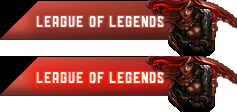
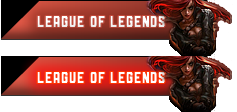
Adjust spacing of images

diff --git a/ahgl/static/css/layout.css b/ahgl/static/css/layout.css
@@ -1261,7 +1261,7 @@ div#static-navheader .navbar-inner {
 	width: 920px;
 	margin: 0 auto;
 	position: relative;
-	left: 59px;
+	left: 50px;
 }
 
 div#static-navheader a {
@@ -1275,6 +1275,10 @@ div#static-navheader li.dropdown {
 
 div#static-navheader .dropdown-toggle {
     padding: 10px 0px 10px 0px;
+}
+
+div#static-navheader .dropdown-toggle.left-padding {
+	padding-left: 9px;
 }
 
 div#static-navheader .dropdown-menu {
@@ -1302,12 +1306,12 @@ div#static-navheader .login {
 }
 .ahgl2-sc2 .game {
 	display: block;
-	width: 164px;
+	width: 173px;
 	height: 30px;
-	background: url("../images/topnav-sc2.png") -200px 0px;
+	background: url("../images/topnav-sc2.png") -192px 0px;
 }
 .ahgl2-sc2 .game:hover {
-	background: url("../images/topnav-sc2.png") -200px -56px;
+	background: url("../images/topnav-sc2.png") -192px -56px;
 } 
 .ahgl2-day9tv.brand {
 	margin: 0px -20px;

diff --git a/ahgl/templates/site_base.html b/ahgl/templates/site_base.html
@@ -35,7 +35,7 @@
 			<li class="ahgl2-lol"><a href="/league-legends-season-3-a-league" class="game">&nbsp;</a></li>
 			
 			<li class="dropdown">
-				<a href="#" class="dropdown-toggle" data-toggle="dropdown">A League<b class="caret"></b></a>
+				<a href="#" class="dropdown-toggle left-padding" data-toggle="dropdown">A League<b class="caret"></b></a>
 				<ul class="dropdown-menu">
 					<li><a href="/league-legends-season-3-b-league">A League Home</a></li>
 					<li class="divider"></li>
